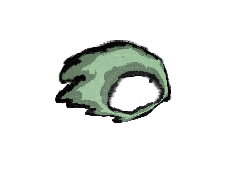
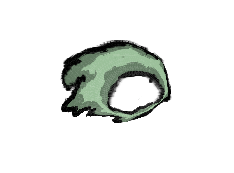
Fitter: pinned outline; mashtzarr hoods keep their front point in place
New "Pin outline" mode for headwear: the item is shown as originally
drawn and the brush snaps to the silhouette pixels it covers (red). After
the 6x6 fit and the hood-hole deform, pinned pixels return exactly to their
source position and the surrounding cloth follows with a Gaussian falloff
(strength by distance to the nearest pin, so stroke density does not
matter; the falloff widens automatically for large corrections so it never
folds). Pins are saved per item, travel with fit snapshots, ZIP exports,
grid export/import and undo, and apply to every layer of the item.

Re-exported the mashtzarr fur and fur-lined hoods (same transforms and
hole quads as before) with the front point of each hood pinned, so the
refit no longer pushes it out past the trunk. The fur hood's animal pieces
are re-warped through the same pinned pipeline.

Claude-Session: https://claude.ai/code/session_01XRZE2sVSA4jEZ2bpX92Ess

Changed region(s): [[0.2393, 0.3757, 0.4188, 0.6936]]

diff --git a/docs/tools/clothing-species-fit/silhouette-pins.js b/docs/tools/clothing-species-fit/silhouette-pins.js
@@ -1,0 +1,98 @@
+// Pinned silhouette for the clothing species-fit editor.
+//
+// The author paints parts of an item's outline that must not move (e.g. a
+// hood's front point that would otherwise poke out past the face). After the
+// 6×6 fit and the hood-hole deform have run, every pinned pixel is pulled
+// back to exactly where it was in the source art, and the cloth around it
+// follows with a Gaussian falloff (sigma, in sprite px), so nothing tears.
+//
+// pins: [{x, y, ex, ey}] where (x, y) is where the fitted art put a pinned
+// pixel and (ex, ey) is the move that returns it to its source position.
+// Pure functions only (RGBA arrays in, RGBA arrays out) so tests run in Node.
+(() => {
+  'use strict';
+  const root = typeof window !== 'undefined' ? window : globalThis;
+  if (root.ClothingSilhouettePins) return;
+
+  const DEFAULT_SIGMA = 8;
+
+  function normalizeSigma(value) {
+    const n = Number(value);
+    return Number.isFinite(n) ? Math.max(2, Math.min(40, n)) : DEFAULT_SIGMA;
+  }
+
+  // Large corrections need a wider falloff or the field folds: the Gaussian's
+  // steepest slope is |e|·0.61/σ, so keep σ ≥ 0.9·|e| (slope ≤ ~0.7) and the
+  // fixed-point inverse below always converges.
+  function effectiveSigma(pins, sigma) {
+    let maxE = 0;
+    for (const p of pins) maxE = Math.max(maxE, Math.hypot(p.ex, p.ey));
+    return Math.max(normalizeSigma(sigma), maxE * 0.9);
+  }
+
+  // Forward correction at a point: the direction is the weighted mean of
+  // nearby pin moves, the strength falls off with distance to the NEAREST pin
+  // (exp(-d²/2σ²)), so it is exact on the stroke and independent of how
+  // densely the stroke was painted.
+  function correctionAt(pins, sigma, x, y) {
+    const inv = 1 / (2 * sigma * sigma), reach = 9 * sigma * sigma;
+    let sw = 0, sx = 0, sy = 0, nearest = 0;
+    for (const p of pins) {
+      const dx = x - p.x, dy = y - p.y, d2 = dx * dx + dy * dy;
+      if (d2 > reach) continue;
+      const w = Math.exp(-d2 * inv);
+      sw += w; sx += w * p.ex; sy += w * p.ey;
+      if (w > nearest) nearest = w;
+    }
+    if (!sw) return { x: 0, y: 0 };
+    const k = nearest / sw;
+    return { x: sx * k, y: sy * k };
+  }
+
+  // Warps RGBA pixels by the correction field (inverse by fixed-point
+  // iteration, nearest-neighbour sampling so pixel art stays crisp). Only the
+  // region the pins can reach is touched.
+  function warp(rgba, width, height, pins, sigmaInput) {
+    const list = (pins || []).filter(p => Number.isFinite(p.x) && Number.isFinite(p.y) && Number.isFinite(p.ex) && Number.isFinite(p.ey));
+    if (!list.length || list.every(p => Math.abs(p.ex) < 1e-3 && Math.abs(p.ey) < 1e-3)) return rgba;
+    const sigma = effectiveSigma(list, sigmaInput), pad = 3 * sigma + 2;
+    let x0 = Infinity, y0 = Infinity, x1 = -Infinity, y1 = -Infinity;
+    for (const p of list) {
+      x0 = Math.min(x0, p.x, p.x + p.ex); x1 = Math.max(x1, p.x, p.x + p.ex);
+      y0 = Math.min(y0, p.y, p.y + p.ey); y1 = Math.max(y1, p.y, p.y + p.ey);
+    }
+    const bx0 = Math.max(0, Math.floor(x0 - pad)), bx1 = Math.min(width - 1, Math.ceil(x1 + pad));
+    const by0 = Math.max(0, Math.floor(y0 - pad)), by1 = Math.min(height - 1, Math.ceil(y1 + pad));
+    const out = new Uint8ClampedArray(rgba);
+    for (let qy = by0; qy <= by1; qy++) for (let qx = bx0; qx <= bx1; qx++) {
+      const cx = qx + 0.5, cy = qy + 0.5;
+      let sx = cx, sy = cy;
+      for (let k = 0; k < 8; k++) {
+        const d = correctionAt(list, sigma, sx, sy);
+        sx = cx - d.x; sy = cy - d.y;
+      }
+      const ix = Math.floor(sx), iy = Math.floor(sy), oi = (qy * width + qx) * 4;
+      if (ix < 0 || iy < 0 || ix >= width || iy >= height) { out[oi] = out[oi + 1] = out[oi + 2] = out[oi + 3] = 0; continue; }
+      const si = (iy * width + ix) * 4;
+      out[oi] = rgba[si]; out[oi + 1] = rgba[si + 1]; out[oi + 2] = rgba[si + 2]; out[oi + 3] = rgba[si + 3];
+    }
+    return out;
+  }
+
+  // Outline pixels of an alpha mask (opaque with a transparent 4-neighbour)
+  // within radius of (cx, cy): what a brush stroke along the silhouette pins.
+  function outlinePixelsNear(rgba, width, height, cx, cy, radius, alphaLimit = 64) {
+    const found = [], r2 = radius * radius;
+    const opaque = (x, y) => x >= 0 && y >= 0 && x < width && y < height && rgba[(y * width + x) * 4 + 3] >= alphaLimit;
+    for (let y = Math.floor(cy - radius); y <= Math.ceil(cy + radius); y++) for (let x = Math.floor(cx - radius); x <= Math.ceil(cx + radius); x++) {
+      const dx = x + 0.5 - cx, dy = y + 0.5 - cy;
+      if (dx * dx + dy * dy > r2 || !opaque(x, y)) continue;
+      if (!opaque(x - 1, y) || !opaque(x + 1, y) || !opaque(x, y - 1) || !opaque(x, y + 1)) found.push({ x: x + 0.5, y: y + 0.5 });
+    }
+    return found;
+  }
+
+  root.ClothingSilhouettePins = Object.freeze({
+    DEFAULT_SIGMA, normalizeSigma, effectiveSigma, correctionAt, warp, outlinePixelsNear,
+  });
+})();

diff --git a/scripts/test-clothing-silhouette-pins.js b/scripts/test-clothing-silhouette-pins.js
@@ -1,0 +1,47 @@
+'use strict';
+// Pinned outline (docs/tools/clothing-species-fit/silhouette-pins.js): pinned
+// pixels go back exactly to their source position, the correction fades out
+// with distance, nothing far away changes, and the brush snaps to outline
+// pixels only.
+const assert = require('assert');
+const fs = require('fs');
+const path = require('path');
+const vm = require('vm');
+
+const ctx = {};
+vm.runInNewContext(fs.readFileSync(path.join(__dirname, '../docs/tools/clothing-species-fit/silhouette-pins.js'), 'utf8'), ctx);
+const Pins = ctx.ClothingSilhouettePins;
+
+// A filled 20x20 square at (30..49, 30..49) in an 80x80 sprite.
+const W = 80, H = 80, rgba = new Uint8ClampedArray(W * H * 4);
+for (let y = 30; y < 50; y++) for (let x = 30; x < 50; x++) { const i = (y * W + x) * 4; rgba[i] = 200; rgba[i + 3] = 255; }
+
+// The brush snaps to outline pixels: an interior click finds nothing, an edge click finds edge pixels only.
+assert.equal(Pins.outlinePixelsNear(rgba, W, H, 40, 40, 3).length, 0, 'interior pixels are never pinned');
+const edge = Pins.outlinePixelsNear(rgba, W, H, 30.5, 40, 2.5);
+assert(edge.length >= 3 && edge.every(p => p.x === 30.5), 'left-edge click pins the left outline column: ' + JSON.stringify(edge));
+
+// Suppose the fit moved the left edge 6px right (x 30 -> 36); pins pull it back.
+const pinsAt = edge.map(p => ({ x: p.x + 6, y: p.y, ex: -6, ey: 0 }));
+const on = Pins.correctionAt(pinsAt, 8, pinsAt[0].x, pinsAt[0].y);
+assert(Math.abs(on.x + 6) < 1e-9 && Math.abs(on.y) < 1e-9, 'correction is exact on the pinned stroke: ' + JSON.stringify(on));
+const near = Pins.correctionAt(pinsAt, 8, pinsAt[0].x + 8, pinsAt[0].y).x;
+const far = Pins.correctionAt(pinsAt, 8, pinsAt[0].x + 30, pinsAt[0].y).x;
+assert(near < -0.5 && near > -6, 'cloth near the pin follows partly: ' + near);
+assert.equal(far, 0, 'nothing beyond the falloff moves');
+
+// Shift the square right by 6 to stand in for "fitted art", then apply the pins.
+const fitted = new Uint8ClampedArray(W * H * 4);
+for (let y = 30; y < 50; y++) for (let x = 36; x < 56; x++) { const i = (y * W + x) * 4; fitted[i] = 200; fitted[i + 3] = 255; }
+const out = Pins.warp(fitted, W, H, pinsAt, 8);
+const alphaAt = (img, x, y) => img[(y * W + x) * 4 + 3];
+for (const p of edge) assert.equal(alphaAt(out, Math.floor(p.x), Math.floor(p.y)), 255, 'pinned outline pixel is back at its source position ' + JSON.stringify(p));
+assert.equal(alphaAt(out, 55, 10), alphaAt(fitted, 55, 10), 'far pixels are untouched');
+assert.equal(alphaAt(out, 55, 40), 255, 'the far (unpinned) edge stays where the fit put it');
+assert.strictEqual(Pins.warp(fitted, W, H, [], 8), fitted, 'no pins is a no-op');
+assert.strictEqual(Pins.warp(fitted, W, H, edge.map(p => ({ ...p, ex: 0, ey: 0 })), 8), fitted, 'pins already in place are a no-op');
+
+// Big corrections widen the falloff so the field cannot fold.
+assert(Pins.effectiveSigma([{ x: 0, y: 0, ex: 30, ey: 0 }], 4) >= 27, 'falloff widens for large corrections');
+assert.equal(Pins.normalizeSigma('nope'), Pins.DEFAULT_SIGMA);
+console.log('Silhouette pins OK: outline snapping, exact pinned pixels, falloff, far pixels untouched.');

diff --git a/docs/tools/clothing-species-fit/index.html b/docs/tools/clothing-species-fit/index.html
@@ -47,6 +47,7 @@
           <button data-mode="fit">Species fit</button>
           <button data-mode="quad">Quad corners</button>
           <button data-mode="hole">Hood hole</button>
+          <button data-mode="pin">Pin outline</button>
           <button data-mode="preview">Preview</button>
           <button data-mode="protect">Protect pixels</button>
           <button data-mode="headband">Band spline</button>
@@ -94,6 +95,15 @@
         <div id="holeLegend" class="hole-legend" aria-label="Hood layers"></div>
         <div class="row"><button type="button" id="holeReset">Reset opening corners</button></div>
         <div id="holeStatus" class="small" aria-live="polite"></div>
+      </section>
+
+      <section id="pinSection" hidden>
+        <h2>Pinned outline</h2>
+        <div class="small">In <b>Pin outline</b> mode the item is shown untransformed. Paint along the parts of its silhouette that must not move; the brush snaps to the outline pixels it covers (red). After the fit and hood-hole deform, pinned pixels return to exactly where they are in the original art and the cloth around them follows smoothly. Saved per item.</div>
+        <div class="field"><label for="pinBrush">Brush radius (sprite px)</label><div class="row"><input id="pinBrush" type="range" min="1" max="12" step="0.5" value="3"><input id="pinBrushNumber" type="number" min="1" max="12" step="0.5" value="3" aria-label="Pin brush radius"></div></div>
+        <div class="field"><label for="pinSigma">Falloff radius around pinned pixels (sprite px)</label><div class="row"><input id="pinSigma" type="range" min="2" max="40" step="0.5" value="8"><input id="pinSigmaNumber" type="number" min="2" max="40" step="0.5" value="8" aria-label="Pin falloff radius"></div></div>
+        <div class="row"><label class="small"><input id="pinErase" type="checkbox"> erase pins</label><button type="button" id="pinClear">Clear pins</button></div>
+        <div id="pinStatus" class="small" aria-live="polite"></div>
       </section>
 
       <section id="recipeSection">

diff --git a/scripts/test-clothing-fit-editor-layers.js b/scripts/test-clothing-fit-editor-layers.js
@@ -308,7 +308,10 @@ async function main() {
   assert(/exportLayers\.length<=1&&!exportLayers\.some\(layer=>layer\.frame\)/.test(core), 'A framed single-layer hat still exports as a ZIP with its config');
   assert(core.includes('function drawPortraitRaster(ctx,image,width,height,frame=null)'), 'Framed source PNGs load at their standard-canvas position');
   assert(core.includes("if(String(role||'')!=='trim')return 0;"), 'Only trim layers follow the hood opening');
-  assert(core.includes('{view:layer.view,hole:fitState.hole,role:layer.role}'), 'Exported layers deform by their own role');
+  assert(core.includes('{view:layer.view,hole:fitState.hole,pins:fitState.pins,role:layer.role}'), 'Exported layers deform by their own role and carry the pinned outline');
+  assert(core.includes('return applySilhouettePins(holed,grid,width,height,options.pins!==undefined?options.pins:currentPinRecord(),hole);'), 'Pinned outline applies after the hood-hole deform');
+  for (const store of ['silhouettePins:A.silhouettePins||{}', 'if(v.silhouettePins)A.silhouettePins=v.silhouettePins', 'silhouettePins:v.silhouettePins||{}', 'A.silhouettePins=v.silhouettePins||{}'])
+    assert(core.includes(store), 'Pinned outlines persist through save/export/import/undo: ' + store);
   assert(core.includes('{view:layer.view,role:layer.role}') && core.includes('{role:sprite.role}'), 'Hood hole and runtime previews deform each layer by its role');
   assert(core.includes('Hole.mesh(profile,hole.corners,hole.rate,{follow:holeFollowForRole(hole,role)})'), 'Hood hole deform draws through the forward mesh');
 

diff --git a/scripts/test-clothing-fit-loader.js b/scripts/test-clothing-fit-loader.js
@@ -165,6 +165,7 @@ async function testSuccess(){
   files['contour-fit.js']='window.contourReady=true;';
   files['../../js/beard-hood-cutout.js']='window.beardHoodReady=true;';
   files['hood-hole-deform.js']='window.hoodHoleReady=true;';
+  files['silhouette-pins.js']='window.silhouettePinsReady=true;';
   for(let i=1;i<=12;i++)files['app.part'+i+'.txt']=i===1?'window.coreReady=true;':'';
   for(let i=1;i<=5;i++)files['behind.part'+i+'.txt']=i===1?'window.behindReady=true;':'';
   const {host,status,behindPanel}=makeHost(async name=>{
@@ -174,8 +175,8 @@ async function testSuccess(){
   });
   vm.runInNewContext(loader,host,{filename:'loader.js'});
   await waitUntil(()=>status.banner?.removed);
-  assert.equal(names.length,21,'Spline + contour + hood-hole + app + behind modules must load exactly once');
-  assert.deepEqual(names.slice(2,4),['../../js/beard-hood-cutout.js','hood-hole-deform.js'],'Hood-opening detection and hole warp load before the main editor');
+  assert.equal(names.length,22,'Spline + contour + hood-hole + pins + app + behind modules must load exactly once');
+  assert.deepEqual(names.slice(2,5),['../../js/beard-hood-cutout.js','hood-hole-deform.js','silhouette-pins.js'],'Hood-opening detection, hole warp and outline pins load before the main editor');
   assert.equal(host.beardHoodReady,true,'The beard/hood rim tracer initializes');
   assert.equal(host.hoodHoleReady,true,'The hood-hole warp initializes');
   assert.equal(names[0],'headband-spline-fit.js','Headband spline must load before the main editor');

diff --git a/docs/tools/clothing-species-fit/loader.js b/docs/tools/clothing-species-fit/loader.js
@@ -46,6 +46,8 @@
     (0,eval)(beardHood);
     const hoodHole=await fetchPart('hood-hole-deform.js'); // Pure hood-opening quad warp with distance falloff.
     (0,eval)(hoodHole);
+    const silhouettePins=await fetchPart('silhouette-pins.js'); // Pure pinned-outline correction applied after the fit and hood-hole deform.
+    (0,eval)(silhouettePins);
     const core=await fetchParts('app.part',12,'clothing fit editor');
     (0,eval)(core); // The 2D tool initializes immediately, independently of Three.js and patch author.
     const behind=await fetchParts('behind.part',5,'behind-sprite extension');
